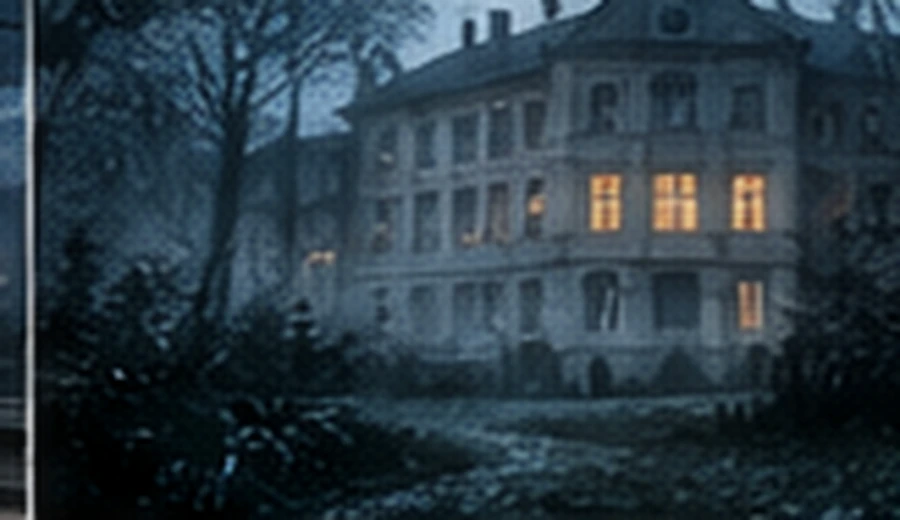
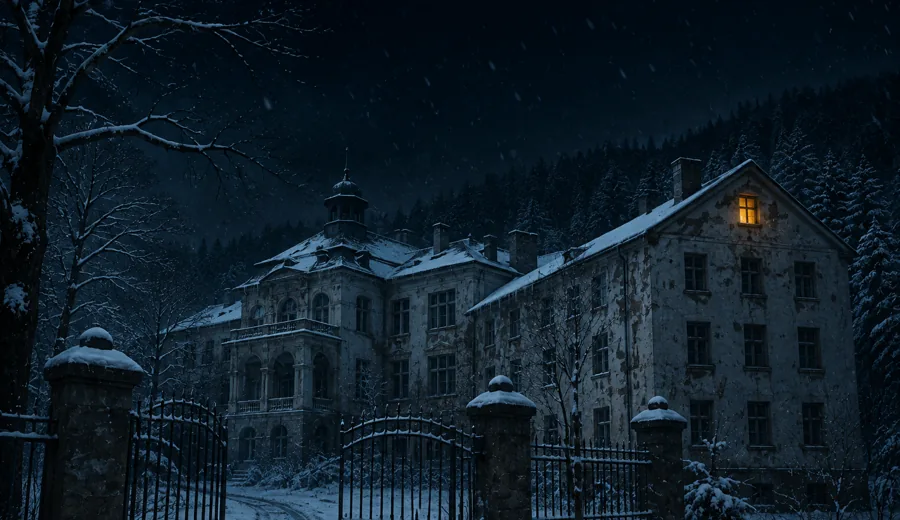
2.7.1: grafiki sprawy 003, opisy dopasowane do zdjęć
Claude-Session: https://claude.ai/code/session_01MBC5hL4DoHuZbNGHuhvvhk

diff --git a/sw.js b/sw.js
@@ -1,5 +1,5 @@
 /* ŚLAD — Service Worker: offline po pierwszym uruchomieniu. */
-const VERSION = '2.7.0';
+const VERSION = '2.7.1';
 const CACHE = 'slad-' + VERSION;
 const CORE = [
   './',
@@ -23,6 +23,30 @@ const CORE = [
   './assets/tex/cork.webp',
   './assets/tex/grain.png',
   './assets/art/001-keyart.webp',
+  './assets/art/003-keyart.webp',
+  './assets/evidence/003-boots.webp',
+  './assets/evidence/003-button.webp',
+  './assets/evidence/003-camera.webp',
+  './assets/evidence/003-coat.webp',
+  './assets/evidence/003-floodlight.webp',
+  './assets/evidence/003-frames.webp',
+  './assets/evidence/003-journal.webp',
+  './assets/evidence/003-net.webp',
+  './assets/evidence/003-panel.webp',
+  './assets/evidence/003-snow.webp',
+  './assets/people/003-halina.webp',
+  './assets/people/003-joanna.webp',
+  './assets/people/003-kamil.webp',
+  './assets/people/003-krystyna.webp',
+  './assets/people/003-wilk.webp',
+  './assets/people/003-zenon.webp',
+  './assets/places/003-attic.webp',
+  './assets/places/003-flat.webp',
+  './assets/places/003-gatehouse.webp',
+  './assets/places/003-grounds.webp',
+  './assets/places/003-inn.webp',
+  './assets/places/003-stairwell.webp',
+  './assets/places/003-villa.webp',
   './assets/plan/paper.webp',
   './assets/plan/marker.webp',
   './assets/plan/body-lying.webp',

diff --git a/app.js b/app.js
@@ -1,6 +1,6 @@
 /* ŚLAD 2.0 — silnik gry. Wszystkie postacie i zdarzenia są fikcyjne. */
 'use strict';
-const VERSION = '2.7.0';
+const VERSION = '2.7.1';
 const BUILD = '10.11.2026';
 let swReg = null;
 const STORE_KEY = 'slad.v2';

diff --git a/tools/build_003.py b/tools/build_003.py
@@ -61,7 +61,7 @@ evidence = [
             'C  od stróżówki do drzwi                          filcowe buty ok. 44, łata   2 cm',
             'D  od drzwi do stróżówki                          te same filcowe buty        1 cm',
             'E  stróżówka → drzwi → stróżówka                  te same filcowe buty        0 cm (świeże)']},
-   {'note': 'Łata na lewej pięcie filcowych butów odciska się wyraźnie. Innych śladów na terenie nie ma.'}]),
+   {'note': 'Łata na prawej pięcie filcowych butów odciska się wyraźnie. Innych śladów na terenie nie ma.'}]),
  ev('e09', 'Obserwacja', 'Siatka w duszy klatki', 'Rozdarta od góry.', [
    'Patrząc z parteru w górę duszy klatki: na wysokości stropu II piętra rozpięta jest stalowa siatka zabezpieczająca. Pośrodku jest rozdarta, a druty wygięte w dół.',
    'Nad siatką światło latarki ginie w ciemności.',
@@ -74,7 +74,7 @@ evidence = [
  ev('e12', 'Obserwacja', 'Tablica z kluczami w stróżówce', 'Brakuje jednego klucza.', [
    'Na tablicy w sieni stróżówki brak drugiego klucza do bocznych drzwi klatki gospodarczej. Pierwszy Zenon Kubik nosi przy sobie.']),
  ev('e13', 'Przedmiot', 'Filcowe buty stróża', 'Pokazał je dobrowolnie.', [
-   'Filcowe buty z gumową podeszwą, rozmiar 44. Na lewej pięcie naklejona łata z dętki. Podeszwy jeszcze wilgotne.',
+   'Filcowe buty z gumową podeszwą, rozmiar 44. Na prawej pięcie naklejona łata z dętki. Podeszwy jeszcze wilgotne.',
    {'quote': 'Chodzę w nich od lat. Innych zimowych butów nie mam.', 'by': 'Zenon Kubik'}]),
  ev('e14', 'Obserwacja', 'Ściana na końcu podestu', 'To nie jest ściana.', [
    'Szara „ściana” na końcu podestu II piętra to płyta pilśniowa pomalowana na kolor tynku, przykręcona czterema wkrętami. Za nią — zamurowanie z cegieł z wybitym otworem i świeżym gruzem. Za otworem strome schody prowadzą w górę.',
@@ -89,16 +89,16 @@ evidence = [
    {'note': 'Miniatury są zbyt małe, by rozpoznać twarze. Pełną rozdzielczość technik może wyciągnąć tylko dla kilku wskazanych klatek.'}]),
  ev('e17', 'Oględziny', 'Podest pod izolatorium', 'Stara balustrada, kurz i ślady.', [
    'Podest przed salą: oryginalna balustrada z 1936 roku, wysokość 80 cm. Na poręczy świeże otarcie, kurz starty na odcinku pół metra. Pod podestem dusza klatki opada aż na parter.',
-   'W kurzu na podeście odciski: gładkie kalosze ok. 43 oraz filcowe buty ok. 44 z łatą na lewej pięcie. Ślady się przenikają, kurz rozmazany jak po szamotaninie.']),
+   'W kurzu na podeście odciski: gładkie kalosze ok. 43 oraz filcowe buty ok. 44 z łatą na prawej pięcie. Ślady się przenikają, kurz rozmazany jak po szamotaninie.']),
  ev('e18', 'Kadry', 'Klatki 0435–0437', 'Pełna rozdzielczość z karty kamery.', [
    {'log': ['0435  starszy mężczyzna w puchowej kurtce przy otwartej szafie, w ręku gruby zeszyt;',
             '      w drzwiach sali, na skraju kadru, ramię drugiej osoby',
             '0436  obraz rozmazany, lampa na statywie przechyla się; na pierwszym planie rękaw',
-            '      zielonego płaszcza z mosiężnymi guzikami, dłoń zaciśnięta na puchowej kurtce',
+            '      ciemnego płaszcza z okrągłymi metalowymi guzikami, dłoń zaciśnięta na puchowej kurtce',
             '0437  czarny kadr']}],
    time=[[f'{D} 23:51', 'Kamera: szamotanina przy szafie w izolatorium (klatki 0435–0436)', 'Kamera (ustalone)']]),
  ev('e19', 'Przedmiot', 'Płaszcz z szafy stróża', 'Zielona wełna, mosiężne guziki.', [
-   'Zielony płaszcz leśnika z mosiężnymi guzikami z liściem dębu. Przy prawym mankiecie brakuje jednego guzika — zostały wyrwane nitki. Dół płaszcza wilgotny.']),
+   'Zielony płaszcz leśnika z mosiężnymi guzikami z liściem dębu. Przy prawym mankiecie brakuje jednego guzika — wyrwano go razem z kawałkiem materiału, zostały postrzępione nitki. Dół płaszcza wilgotny.']),
  ev('e20', 'Dokument', 'Dziennik izolatorium', 'Zawinięty w ręcznik na dnie szafy stróża.', [
    'Gruby zeszyt w płóciennej oprawie. Na okładce: „Izolatorium — kuracja insulinowa 2016–2018. A.W.”. Wpisy pismem Adama Wilka: inicjały pacjentów, dawki insuliny, godziny śpiączki.',
    {'log': ['2.03.2018  E.R., 34 l., depresja lekooporna', '  22:00  insulina 30 j.', '  23:10  śpiączka', '  01:40  przerwanie glukozą — bez reakcji', '  04:10  zgon']},
@@ -275,7 +275,7 @@ locations = [
   'img': img('places', 'grounds'), 'spots': [
    SP('sp-tracks', 'Ślady przed bocznymi drzwiami', 'Technik pokazuje zabezpieczone ślady i miarkę.', ['e08']),
   ]},
- {'id': 'gatehouse', 'name': 'Stróżówka', 'kind': 'Mieszkanie stróża', 'desc': 'Mały domek przy bramie. Sień z tablicą kluczy, pokój z piecem, szafa.',
+ {'id': 'gatehouse', 'name': 'Stróżówka', 'kind': 'Mieszkanie stróża', 'desc': 'Mały domek przy bramie. Sień z tablicą kluczy, pokój z piecem, łóżko, szafa. Na stole kubek i stary modlitewnik.',
   'img': img('places', 'gatehouse'), 'spots': [
    SP('sp-keys', 'Tablica z kluczami', 'W sieni wiszą klucze do wszystkich drzwi sanatorium.', ['e12']),
    SP('sp-boots', 'Buty przy piecu', 'Zenon zgadza się pokazać buty, w których chodzi.', ['e13']),
@@ -407,7 +407,7 @@ endings = {
 case = {
  'id': '003', 'title': 'Cisza w sanatorium', 'subtitle': 'Światło na piętrze, którego nie ma', 'genre': 'Mroczne mystery',
  'duration': '80–110 min', 'players': '2–6', 'difficulty': 'Wymagająca',
- 'cover': 'assets/cases/003-cover.webp', 'art': img('art', 'keyart') or 'assets/cases/003-cover.webp', 'ambience': 'assets/audio/case-003.mp3',
+ 'cover': 'assets/cases/003-cover.webp', 'art': 'assets/art/003-keyart.webp', 'ambience': 'assets/audio/case-003.mp3',
  'par': 53,
  'intro': {
   'lead': 'Sobota, 21 listopada, 9:30. Sanatorium „Jodła” w Jaworzynie Zdroju. W nocy spadł pierwszy śnieg.',
@@ -426,6 +426,11 @@ case = {
  'tableMode': {'parBonus': 6, 'locations': [hq], 'questions': {}},
  'hintTrail': hintTrail, 'report': report, 'solution': solution, 'endings': endings,
 }
+EVIMG = {'e07': 'button', 'e13': 'boots', 'e19': 'coat', 'e08': 'snow', 'e15': 'floodlight', 'e16': 'camera', 'e20': 'journal', 'e14': 'panel', 'e09': 'net', 'e18': 'frames'}
+for e in evidence:
+    if e['id'] in EVIMG and img('evidence', EVIMG[e['id']]): e['img'] = img('evidence', EVIMG[e['id']])
+    if e['id'] == 'e01' and img('people', 'wilk'): e['img'] = img('people', 'wilk')
+    if e['id'] == 'e05' and img('people', 'halina'): e['img'] = img('people', 'halina')
 if 'plan' in old: case['plan'] = old['plan']
 json.dump(case, open(P, 'w', encoding='utf-8'), ensure_ascii=False, indent=1)
 print('zapisano', P)
